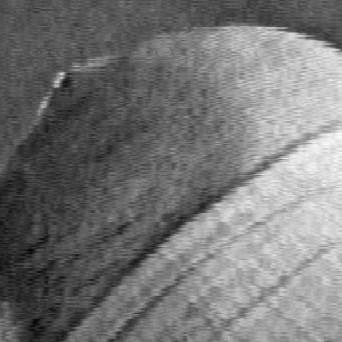
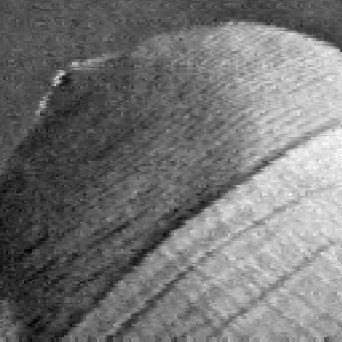
Try to fix fill_grid

diff --git a/Denoiser.py b/Denoiser.py
@@ -73,7 +73,6 @@ class Denoiser:
 			closest_patchs_array_maximum_size = self.closest_patchs_array_maximum_size
 			sum_weight = 0
 			h = 100
-			h = h ** 2
 			for u in range(self.window_size):
 				# Window height
 				for t in range(self.window_size):
@@ -106,12 +105,13 @@ class Denoiser:
 			pixel = 0
 
 			for n in closest_patchs_array:
-				weight = n[2] / sum_weight
+				weight = n[2] * (1.0 / self.closest_patchs_array_maximum_size)
 				pixel += weight * self.noised_image.getpixel((n[0], n[1]))
 			# end for
 
 			# pixel = pixel / self.closest_patchs_array_maximum_size
-			self.denoised_image.putpixel((x, y), int(pixel))
+			pixel = pixel / sum_weight
+			self.denoised_image.putpixel((x, y), int(pixel) * self.closest_patchs_array_maximum_size)
 
 
 	def run(self, patch_size, window_size):
@@ -142,7 +142,7 @@ class Denoiser:
 
 if __name__ == """__main__""":
 	denoiser = Denoiser("""pictures/input.png""")
-	denoiser.run(1, 5)
+	denoiser.run(2, 5)
 	denoiser.denoised_image.save("pictures/output.png", "PNG")
 	denoiser.show("""input""")
 	denoiser.show("""output""")

diff --git a/Patch.py b/Patch.py
@@ -38,6 +38,6 @@ class Patch(Grid):
             # end for
         # end for
         return distance
-    # end def
+    # end defgb
 
 # end class
